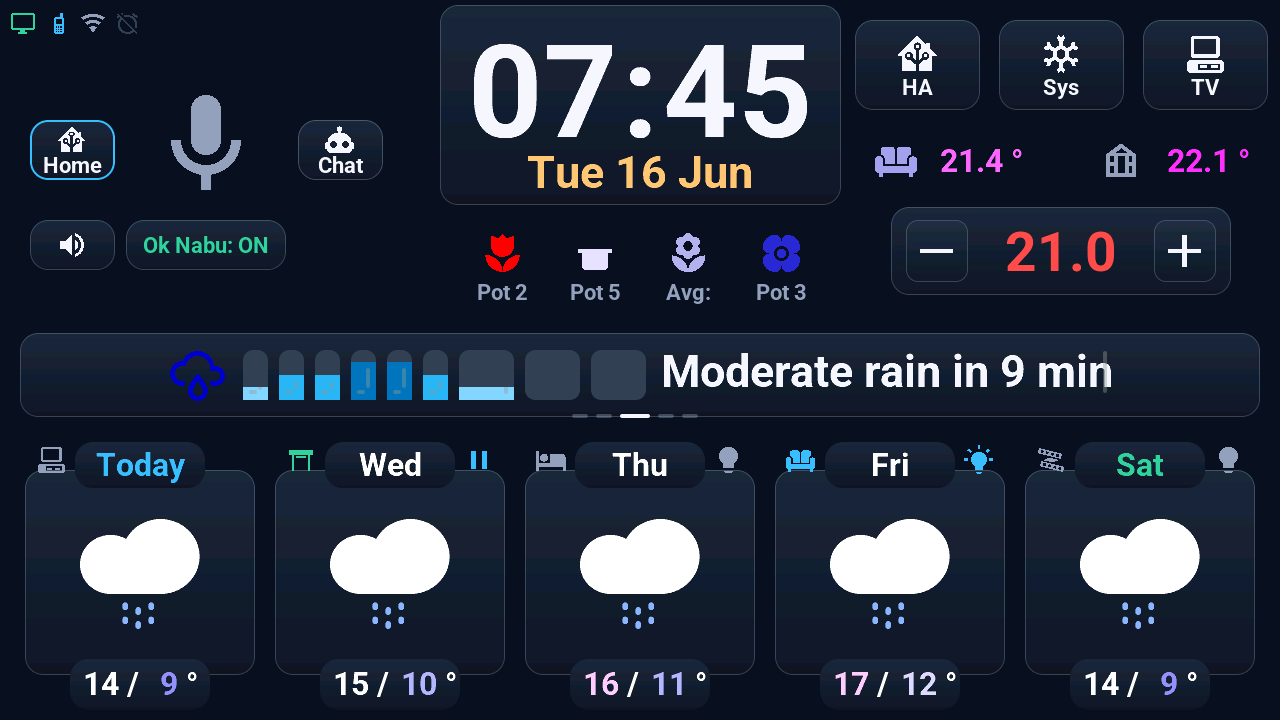
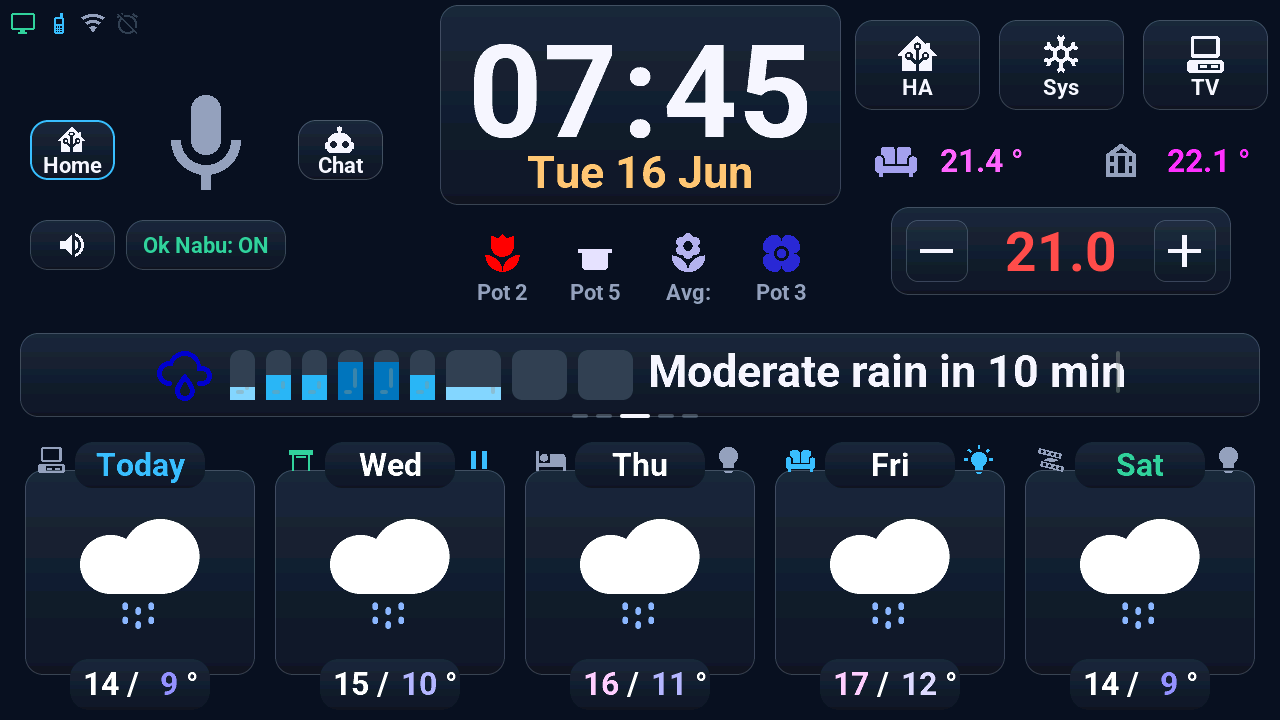
fix(rendu): captures stables, carte centrale figée sur un panneau par scène (lot 7) (#198)
Une capture tombait parfois dans le fondu entre deux panneaux de la carte
centrale, ou sur un autre panneau selon le nombre de tours du rotateur (8 s) :
vu sur la scène pluie en anglais. L'action rendu_panneau (bouchons du rendu)
arrête le rotateur et avance la carte jusqu'au panneau voulu ; capturer.py
fixe planning, pluie, info.

Une heure qui avance franchissait aussi une minute pendant les ~64 s des
trois scènes (07:45 → 07:46) : faketime arrête désormais l'horloge (sans
« @ »), l'horloge monotone reste la vraie. Références de la scène pluie
régénérées (« dans 10 mn » / « in 10 min », exacts). Deux runs de suite
identiques aux références. Rien ne change sur la tablette.

Changed region(s): [[0.125, 0.4889, 0.875, 0.5806]]

diff --git a/tools/rendu/capturer.py b/tools/rendu/capturer.py
@@ -44,6 +44,13 @@ logger = logging.getLogger("capturer")
 # Laisse LVGL finir ses animations (rouleau de l'horloge, bascules) avant la capture.
 ATTENTE_RENDU = 3.0
 
+# Panneau de la carte centrale montré par chaque scène (action rendu_panneau : 0
+# planning, 1 pluie, 3 info). Sans ça, le rotateur (8 s) décidait selon le moment de
+# la capture, parfois en plein fondu entre deux panneaux.
+PANNEAUX = {1: 0, 2: 1, 3: 3}
+# rendu_panneau avance d'un pas toutes les 500 ms, 8 pas au plus.
+ATTENTE_PANNEAU = 5.0
+
 
 def nom_de(index: int, nom_scene: str, suffixe: str = "") -> str:
     """« 1-journee-ensoleillee » (ou « …-en ») : ASCII, sans espace, dans l'ordre des scènes."""
@@ -82,6 +89,8 @@ async def capturer(hote: str, suffixe: str, puis_langue: str | None) -> None:
             logger.info("Scène %d : %s", index, scene.nom)
             await _pousser_scene(client, services_par_nom, scene, frozenset())
             await asyncio.sleep(ATTENTE_RENDU)
+            await _appeler(client, services_par_nom, "rendu_panneau", panneau=PANNEAUX.get(index, 0))
+            await asyncio.sleep(ATTENTE_PANNEAU)
             await _appeler(client, services_par_nom, "rendu_capture", fichier=nom_de(index, scene.nom, suffixe))
             await asyncio.sleep(1.0)
         if puis_langue:

diff --git a/docs/decisions/0021-host-render-stubs.md b/docs/decisions/0021-host-render-stubs.md
@@ -21,7 +21,7 @@ ESPHome 2026.9.0 can compile a configuration for the `host` platform (a Linux or
   - `Tab5/rendu/bouchons.yaml` swaps hardware entries with `!extend` / `!remove` and provides the diagnostic ids the system console reads;
   - `Tab5/rendu/hote/` and `Tab5/rendu/freertos/` replace the ESP-IDF headers for `host` only (copied into the render build by `includes:`).
 - **The interface part of `on_boot` is copied**, not moved: the protected sequence stays untouched. `tests/test_rendu_host.py` requires every copied lambda to exist verbatim in `tab5-ha-hmi.yaml`.
-- **Captures** (`tools/rendu/capturer.py`, CI job `rendu-host.yml`): the render runs on the runner, the demo scenes are pushed through the real API as Home Assistant would, and `rendu_capture` writes one BMP per scene, in French then in English (the « Langue » select restarts the render, as it restarts the tablet). Date, time and time zone are frozen (`faketime`, `Europe/Paris`), so two runs give the same pixels (checked on 2026-09-27).
+- **Captures** (`tools/rendu/capturer.py`, CI job `rendu-host.yml`): the render runs on the runner, the demo scenes are pushed through the real API as Home Assistant would, and `rendu_capture` writes one BMP per scene, in French then in English (the « Langue » select restarts the render, as it restarts the tablet). Date, time and time zone are frozen (`faketime` with a stopped clock, `Europe/Paris`; a running clock crossed a minute during the ~64 s of the three scenes), and the central card's rotator (a new panel every 8 s) is stopped on one panel per scene before the capture (`rendu_panneau`): without it, a capture could fall into the 190 ms cross-fade, or on another panel depending on how many turns had passed (seen on 2026-09-27 on the English rain scene).
 - **Comparison** with `docs/images/rendu/`, which are also the gallery of `docs/screens.md`: informative, a changed screen is reported with a diff image, not blocking (Axel's choice).
 
 ## Consequences

diff --git a/CHANGELOG.md b/CHANGELOG.md
@@ -4,6 +4,21 @@ Format based on [Keep a Changelog](https://keepachangelog.com/en/1.1.0/). Dates 
 
 ## [Unreleased]
 
+### 2026-09-27 — Rendu hors tablette : captures stables (suite du lot 7)
+
+- **Captures instables** : sur un run, la scène « pluie » en anglais est tombée en plein
+  fondu entre le panneau pluie et le panneau des alertes. La carte centrale change de
+  panneau toutes les 8 s, et la capture tombait à un moment différent de ce cycle selon
+  le run.
+- **Correctif, rendu seulement** : l'action `rendu_panneau` (`Tab5/rendu/bouchons.yaml`)
+  arrête le rotateur et avance la carte, un pas à la fois comme un appui, jusqu'au
+  panneau voulu. `tools/rendu/capturer.py` fixe un panneau par scène : planning, pluie,
+  info. Rien ne change sur la tablette.
+- **Heure figée** : `faketime` arrête l'horloge (sans « @ »). Une heure qui avance
+  franchissait une minute pendant les ~64 s des trois scènes : la dernière capture
+  passait de 07:45 à 07:46 (vu sur le premier run de ce correctif). « Dans 10 mn »
+  devient exact pour le rendu comme pour le script ; références régénérées.
+- ADR-0021 complété.
 ### 2026-09-27 — L'écran parle aussi allemand et néerlandais
 
 Suite du lot 4 (langue). Choix d'après les statistiques publiques de Home Assistant
